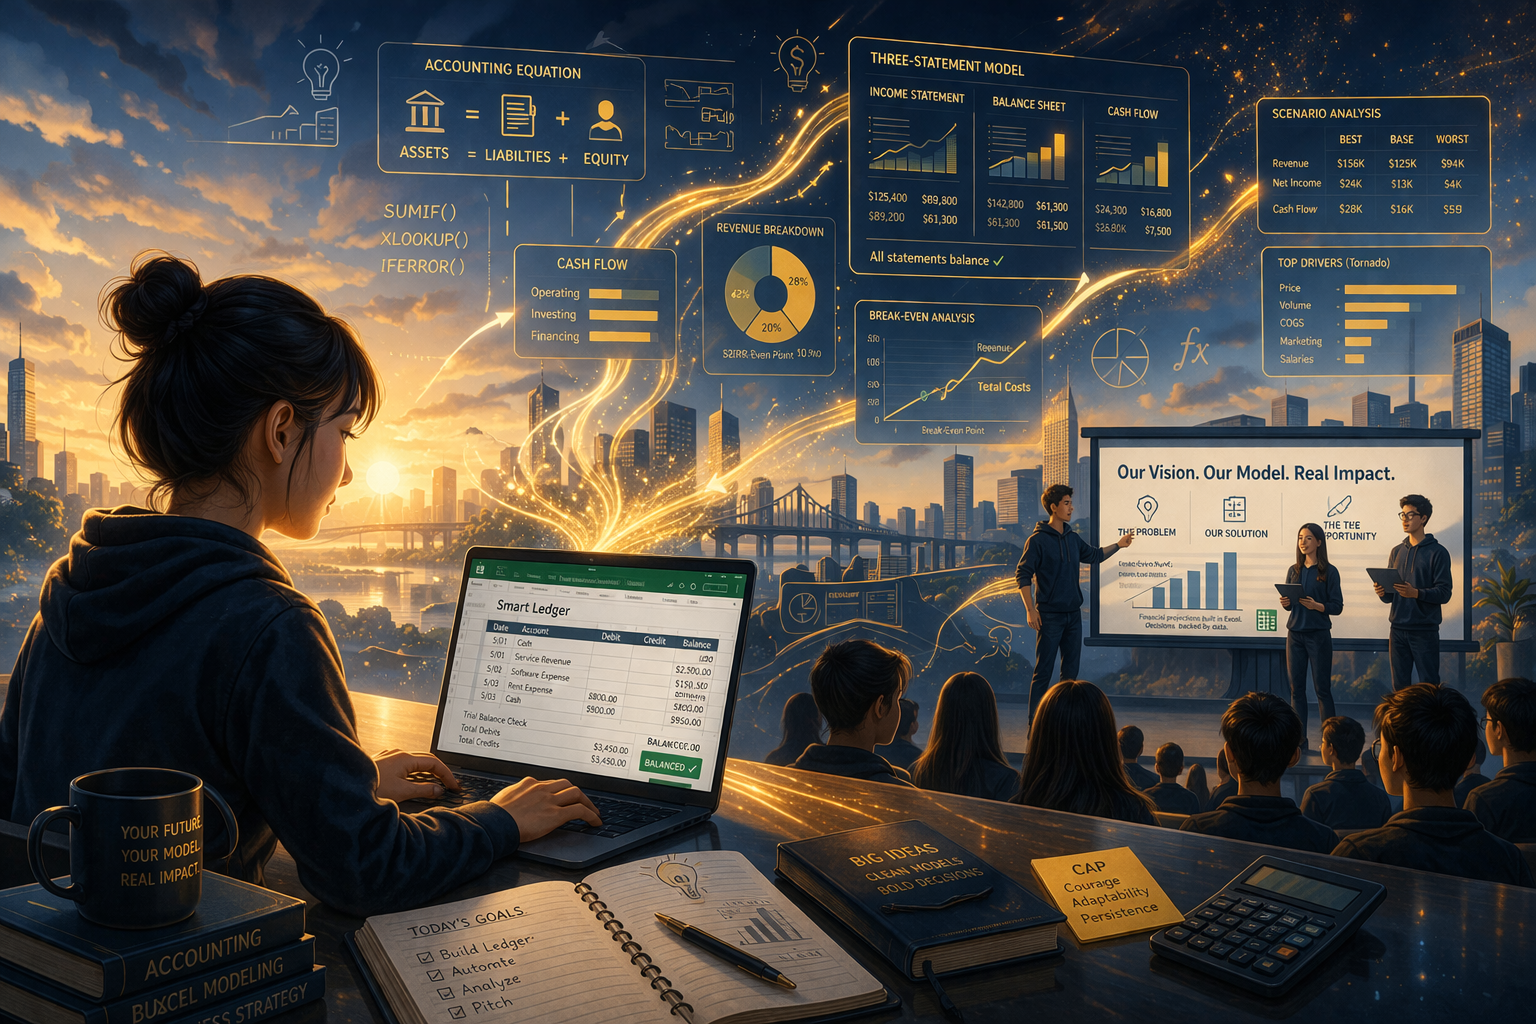
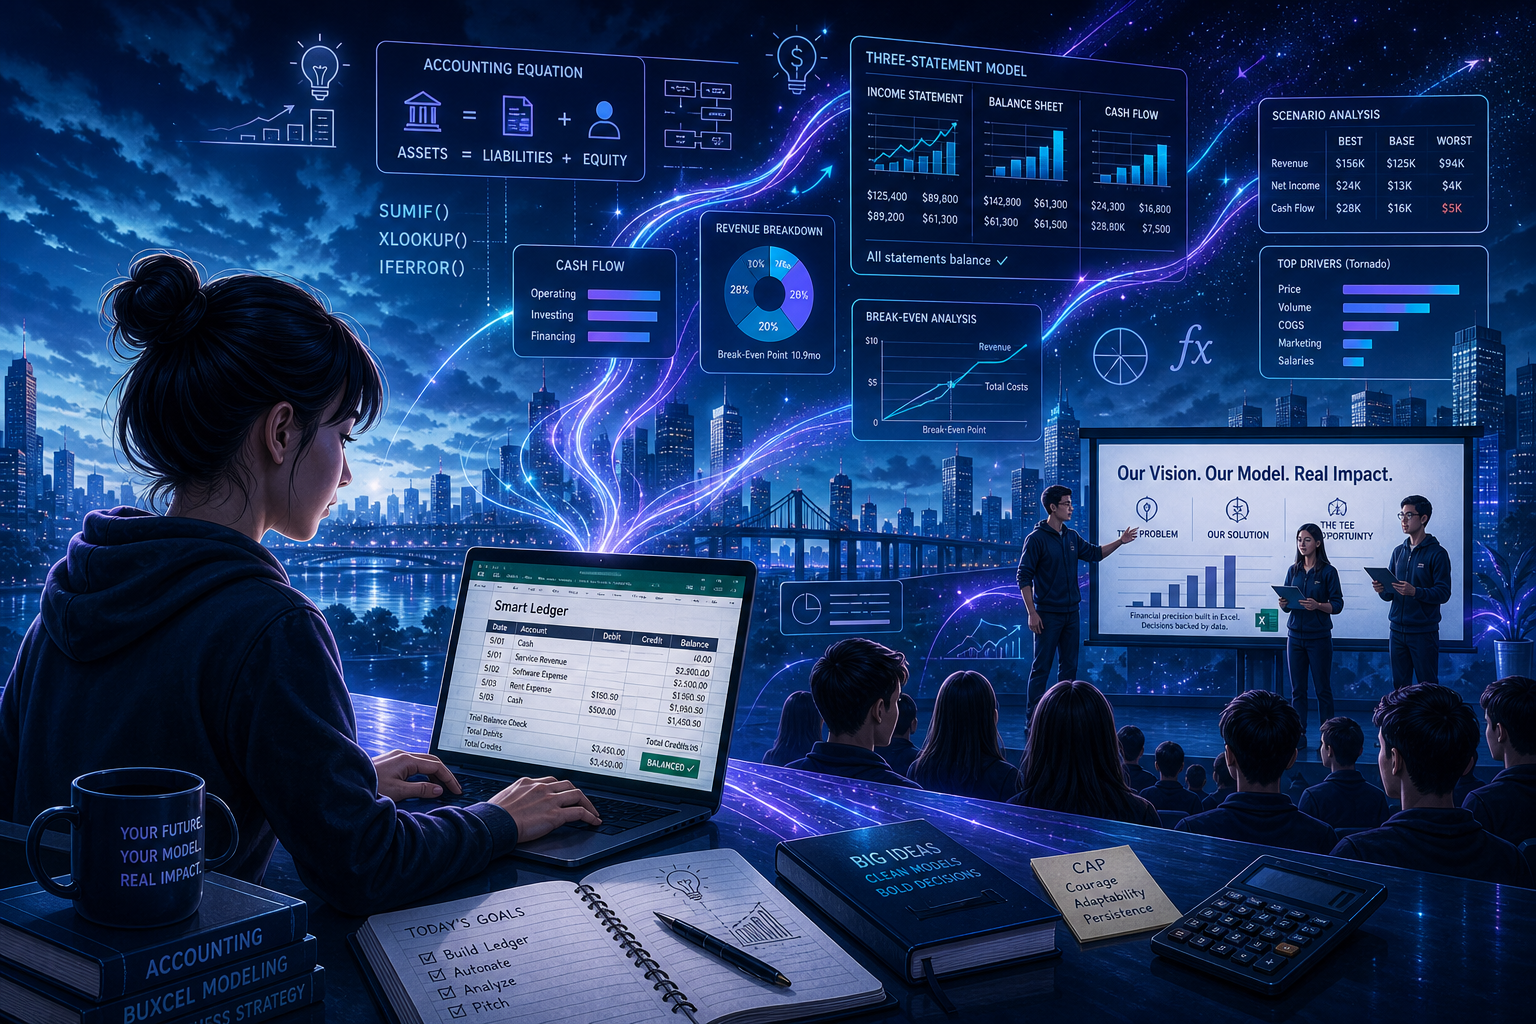
style(visual-refresh): recolor hero asset

diff --git a/measure/tracks/visual_refresh_20260425/plan.md b/measure/tracks/visual_refresh_20260425/plan.md
@@ -10,3 +10,6 @@
 - [x] Update global CSS and Tailwind configuration to match the new `DESIGN.md`.
 - [x] Refactor core UI components (buttons, cards, layout) to reflect the new visual theme.
 - [x] Verify the visual refresh locally.
+
+## Phase 3: Align Static Marketing Assets
+- [x] Recolor `bus-math-nextjs/public/hero.png` from the old financial gold theme to the Velocity Interface palette.

diff --git a/measure/tracks.md b/measure/tracks.md
@@ -136,4 +136,4 @@ Foundational active tracks are ordered intentionally:
 - [x] **Track: Unit 08 - Fixed assets and depreciation**
   *Link: [./archive/tracks/unit08_20260330/](./archive/tracks/unit08_20260330/)*
 
-- [~] [Visual Refresh: Define Unique Identity](tracks/visual_refresh_20260425/index.md)
+- [x] [Visual Refresh: Define Unique Identity](tracks/visual_refresh_20260425/index.md)
